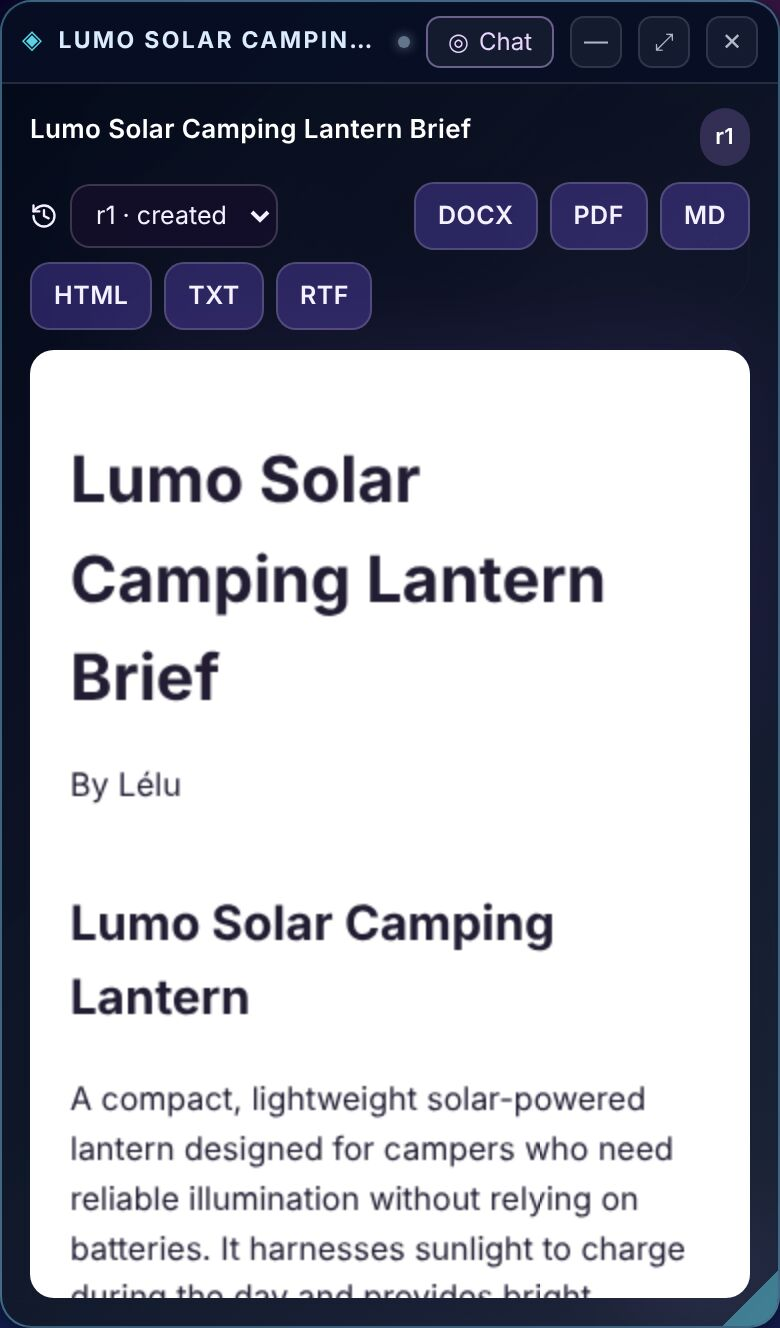
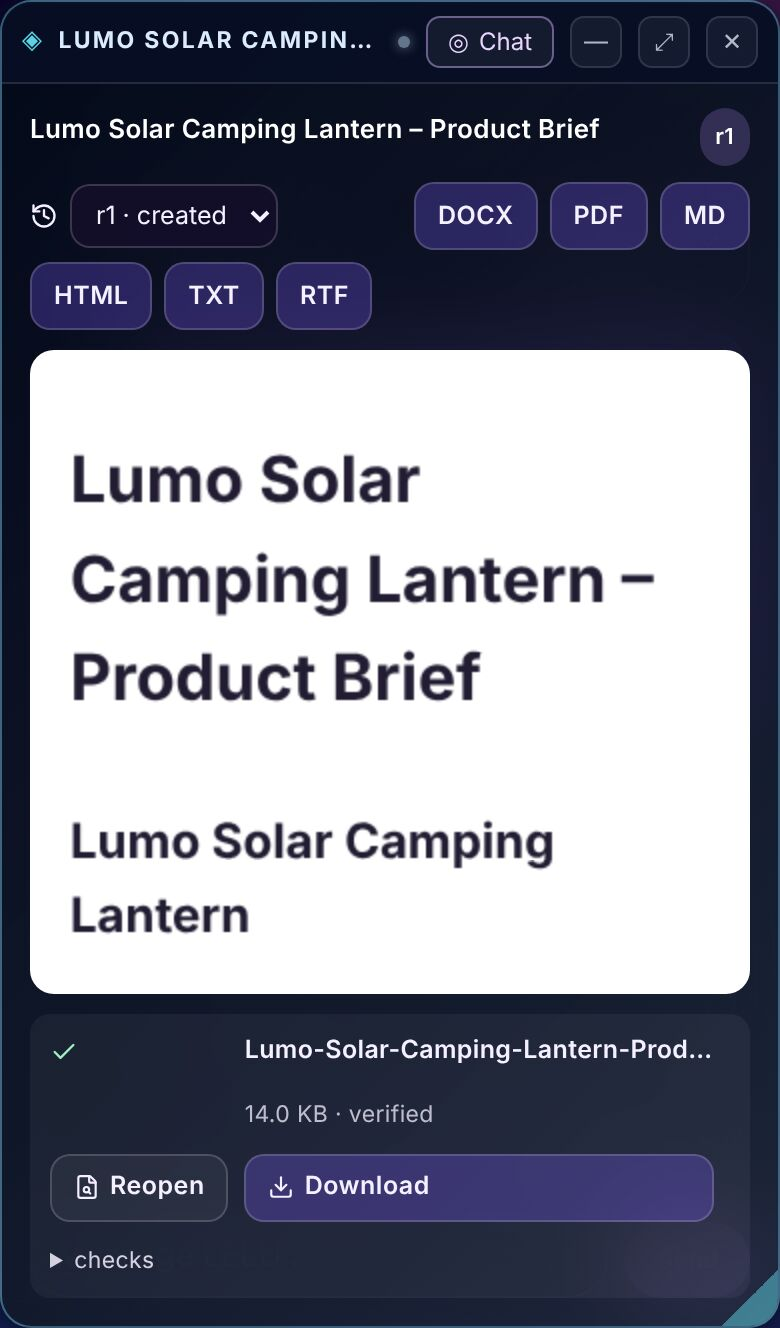
Phase 2: live product creation now creates, binds and exports; turn-settle hang recorded
Claude-Session: https://claude.ai/code/session_017r5V6Pdk4qrXi1rGNE7myg

diff --git a/docs/audit/2026-11-06/PHASE_2_CHAT_MOBILE_REPORT.md b/docs/audit/2026-11-06/PHASE_2_CHAT_MOBILE_REPORT.md
@@ -27,9 +27,18 @@ Application windows stack above the desktop chat panel (`APP_WINDOW_Z` = 101 > 1
 - The full `npm test` passes after both fixes: 1366 passed, 0 failed.
 - After fix 2, the studio and atelier suites pass 11/11 and the typecheck is clean.
 
+## Live product-creation run (after both fixes)
+
+Results are in `evidence/phase-2-chat-mobile/product-creation-report.json`: 7 of 9 checks pass.
+
+- PASS: LÉLU created a real Studio artifact, with a column chart of Lite, Standard and Pro.
+- PASS: The artifact belongs to the conversation that requested it.
+- PASS: The DOCX was written and verified from its bytes (14.0 KB).
+- PASS: The artifact renders, and fills the screen on the phone.
+- FAIL: No artifact card appears inside the conversation.
+- FAIL: The run did not complete, because a screenshot timed out.
+
 ## Open / blockers
 
-- The live product-creation e2e (`tests/e2e/chat-product-creation.e2e.mjs`) is not green. The last live run was stopped before the export fix could be confirmed live. The refinement, persistence and independence steps have not been reached.
-- During live model turns the page becomes intermittently unresponsive: screenshots and evaluate calls time out. Long tasks stay small, while CPU time goes to native "(program)", which looks like rendering. This is not yet diagnosed.
+- **The chat turn hangs after the planned task finishes.** The conversation still shows "Working with tools · 2 tools used", even though both tools finished and the DOCX is verified (screenshot `07-regression/…-product-creation-failure.jpg`). Because the reply never settles, its artifact card is never attached. The refinement message then queues behind the stuck turn, so the refinement, persistence and independence steps are not reached. This hang is probably also behind the unresponsiveness seen during live turns. Next step: find where `Orchestrator.planAndExecute`, the task status, or the `GenesisChat` turn fails to settle.
 - No physical iPhone test has been run. Everything above is Chromium emulation.
-- Next steps: re-run the full suite, re-run the live flow, diagnose the stall, and complete evidence folders 11 and 13–15.
